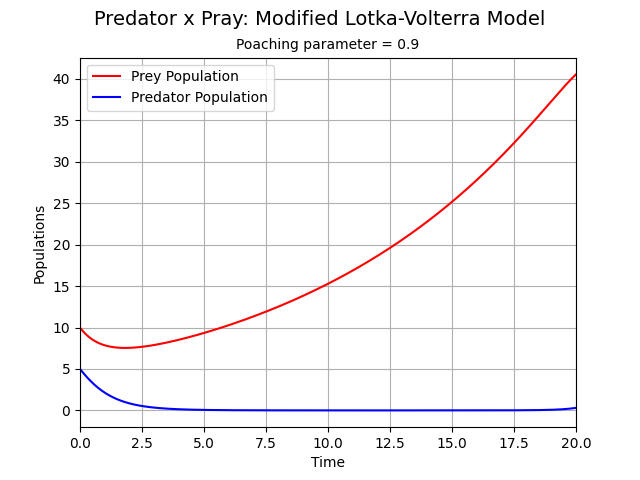
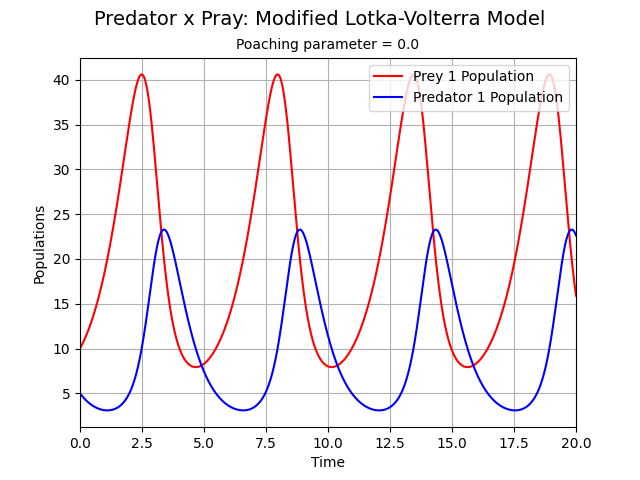
added everything to git

diff --git a/diff_eq_solver.py b/diff_eq_solver.py
@@ -31,15 +31,21 @@ p = poaching rate of outside humans
 """
 
 # Definition of parameters
-a = 1.
+a = 1.0
 b = 0.1
 c = 1.5
 d = 0.75
-p = 0.9
+p = 0.0
+
+X_f0 = np.array([     0. ,  0.])
+X_f1 = np.array([ c/(d*b), a/b])
+
 def dX_dt(X, t=0):
     #Return the growth rate of fox and rabbit populations
     return [ (a - p)*X[0] -   b*X[0]*X[1] ,
-            -(c)*X[1] + d*b*X[0]*X[1] ]
+            -c*X[1] + d*b*X[0]*X[1] ]
+
+
 
 # Define the initial conditions
 X0 = [10, 5]
@@ -50,12 +56,11 @@ t = np.linspace(0, 20, 20000)
 # Solve the differential equations
 X, infodict = odeint(dX_dt, X0, t, full_output=True)
 
-print(infodict['message'])
-
 prey, predator = X.T
+
 f1 = plt.figure()
-plt.plot(t, prey, 'r-', label='Prey Population')
-plt.plot(t, predator  , 'b-', label='Predator Population')
+plt.plot(t, prey, 'r-', label='Prey 1 Population')
+plt.plot(t, predator  , 'b-', label='Predator 1 Population')
 plt.grid()
 plt.xlim(0, 20)
 plt.legend(loc='best')
@@ -64,3 +69,48 @@ plt.ylabel('Populations')
 plt.suptitle('Predator x Pray: Modified Lotka-Volterra Model', fontsize=14)
 plt.title("Poaching parameter = {}".format(p), fontsize=10)
 f1.savefig('predator_pray.png')
+
+
+"""
+Now we will plot the trajectories of the system in the (x, y) plane.
+We will use the function odeint to solve the system of differential equations.
+We will use the function quiver to plot the direction field.
+"""
+
+values  = np.linspace(0.3, 0.9, 5)                          # position of X0 between X_f0 and X_f1
+vcolors = plt.cm.autumn_r(np.linspace(0.3, 1., len(values)))  # colors for each trajectory
+
+f2 = plt.figure()
+
+# plot trajectories
+for v, col in zip(values, vcolors):
+    X0 = v * X_f1                     # starting point
+    X = odeint( dX_dt, X0, t)         # we don't need infodict here
+    plt.plot( X[:,0], X[:,1], lw=3.5*v, color=col, label='X0=(%.f, %.f)' % ( X0[0], X0[1]) )
+
+# define a grid and compute direction at each point
+ymax = plt.ylim(ymin=0)[1]                        # get axis limits
+xmax = plt.xlim(xmin=0)[1]
+nb_points = 20
+
+x = np.linspace(0, xmax, nb_points)
+y = np.linspace(0, ymax, nb_points)
+
+X1 , Y1  = np.meshgrid(x, y)                       # create a grid
+DX1, DY1 = dX_dt([X1, Y1])                      # compute growth rate on the gridt
+M = (np.hypot(DX1, DY1))                           # Norm of the growth rate 
+M[ M == 0] = 1.                                 # Avoid zero division errors 
+DX1 /= M                                        # Normalize each arrows
+DY1 /= M
+
+# Drow direction fields, using matplotlib 's quiver function
+
+plt.title('Trajectories and direction fields')
+Q = plt.quiver(X1, Y1, DX1, DY1, M, pivot='mid', cmap=plt.cm.jet)
+plt.xlabel('Number of prey')
+plt.ylabel('Number of predators')
+plt.legend()
+plt.grid()
+plt.xlim(0, xmax)
+plt.ylim(0, ymax)
+plt.show()
